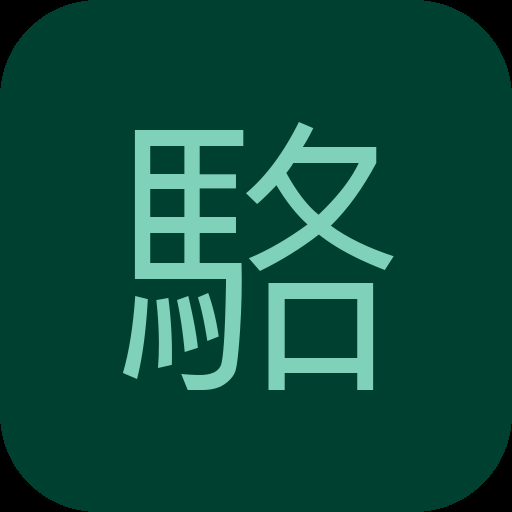
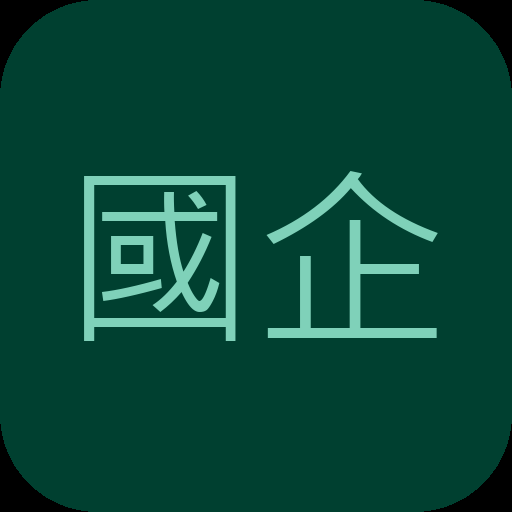
更名為實踐晨報，並更新圖示與單位署名
站名改為「實踐晨報 · KH USC IBM's Daily Brief」，PWA 圖示改為「國企」，
頁尾署名改為實踐大學高雄校區國際企業經營學系。主題設定不變。

Changed region(s): [[0.1562, 0.2188, 0.875, 0.7812]]

diff --git a/index.html b/index.html
@@ -1,6 +1,6 @@
 <meta charset="utf-8">
 <meta name="viewport" content="width=device-width, initial-scale=1, viewport-fit=cover">
-<title>駱駱精選晨報 · LoLo's Daily Brief</title>
+<title>實踐晨報 · KH USC IBM's Daily Brief</title>
 <meta name="description" content="每日巡檢：兩岸、東南亞、日本、無人載具、人工智慧、財稅與會計政策。">
 <meta name="theme-color" content="#004030">
 <link rel="manifest" href="manifest.json">
@@ -41,8 +41,8 @@
   <header class="sticky top-0 z-20 backdrop-blur bg-[#121212]/90 border-b border-[#2f3a36]">
     <div class="max-w-3xl mx-auto px-4 py-3">
       <div class="flex items-baseline justify-between gap-3">
-        <h1 class="text-base sm:text-lg font-bold text-white">駱駱精選晨報</h1>
-        <span class="text-xs text-[#8a9490] font-sans">LoLo&rsquo;s Daily Brief</span>
+        <h1 class="text-base sm:text-lg font-bold text-white">實踐晨報</h1>
+        <span class="text-xs text-[#8a9490] font-sans">KH USC IBM&rsquo;s Daily Brief</span>
       </div>
 
       <div class="mt-3 flex items-center gap-2 font-sans">
@@ -65,7 +65,7 @@
 
   <footer class="border-t border-[#2f3a36] py-6 text-center text-xs text-[#8a9490] font-sans px-4">
     <p>本報彙整公開資訊，非投資或決策建議。</p>
-    <p class="mt-1">駱世民 Shihmin Lo · 國立暨南國際大學管理學院</p>
+    <p class="mt-1">實踐大學高雄校區 國際企業經營學系</p>
   </footer>
 </div>
 

diff --git a/README.md b/README.md
@@ -1,4 +1,4 @@
-# 駱駱精選晨報 · LoLo's Daily Brief
+# 實踐晨報 · KH USC IBM's Daily Brief
 
 每日巡檢六大主題並產出一份晨報：兩岸、東南亞、日本、無人載具、人工智慧、財稅與會計政策。
 
@@ -70,4 +70,4 @@ git add . && git commit -m "brief: YYYY-MM-DD" && git push
 
 ---
 
-駱世民 Shihmin Lo · 國立暨南國際大學管理學院
+實踐大學高雄校區 國際企業經營學系

diff --git a/_system/EDITORIAL.md b/_system/EDITORIAL.md
@@ -51,7 +51,7 @@
 檔名 `Brief_YYYYMMDD.md`，置於 `briefs/`。結構如下：
 
 ```
-# 駱駱精選晨報 — YYYY-MM-DD
+# 實踐晨報 — YYYY-MM-DD
 
 - **產出時間**：YYYY-MM-DD（headless 排程；星期）
 - **主題來源**：`_system/TOPICS.md`（N 個主題）

diff --git a/briefs/Brief_20260818.md b/briefs/Brief_20260818.md
@@ -1,4 +1,4 @@
-# 駱駱精選晨報 — 2026-08-18
+# 實踐晨報 — 2026-08-18
 
 - **產出時間**：2026-08-18（建站樣板；週二）
 - **主題來源**：`_system/TOPICS.md`（6 個主題）
